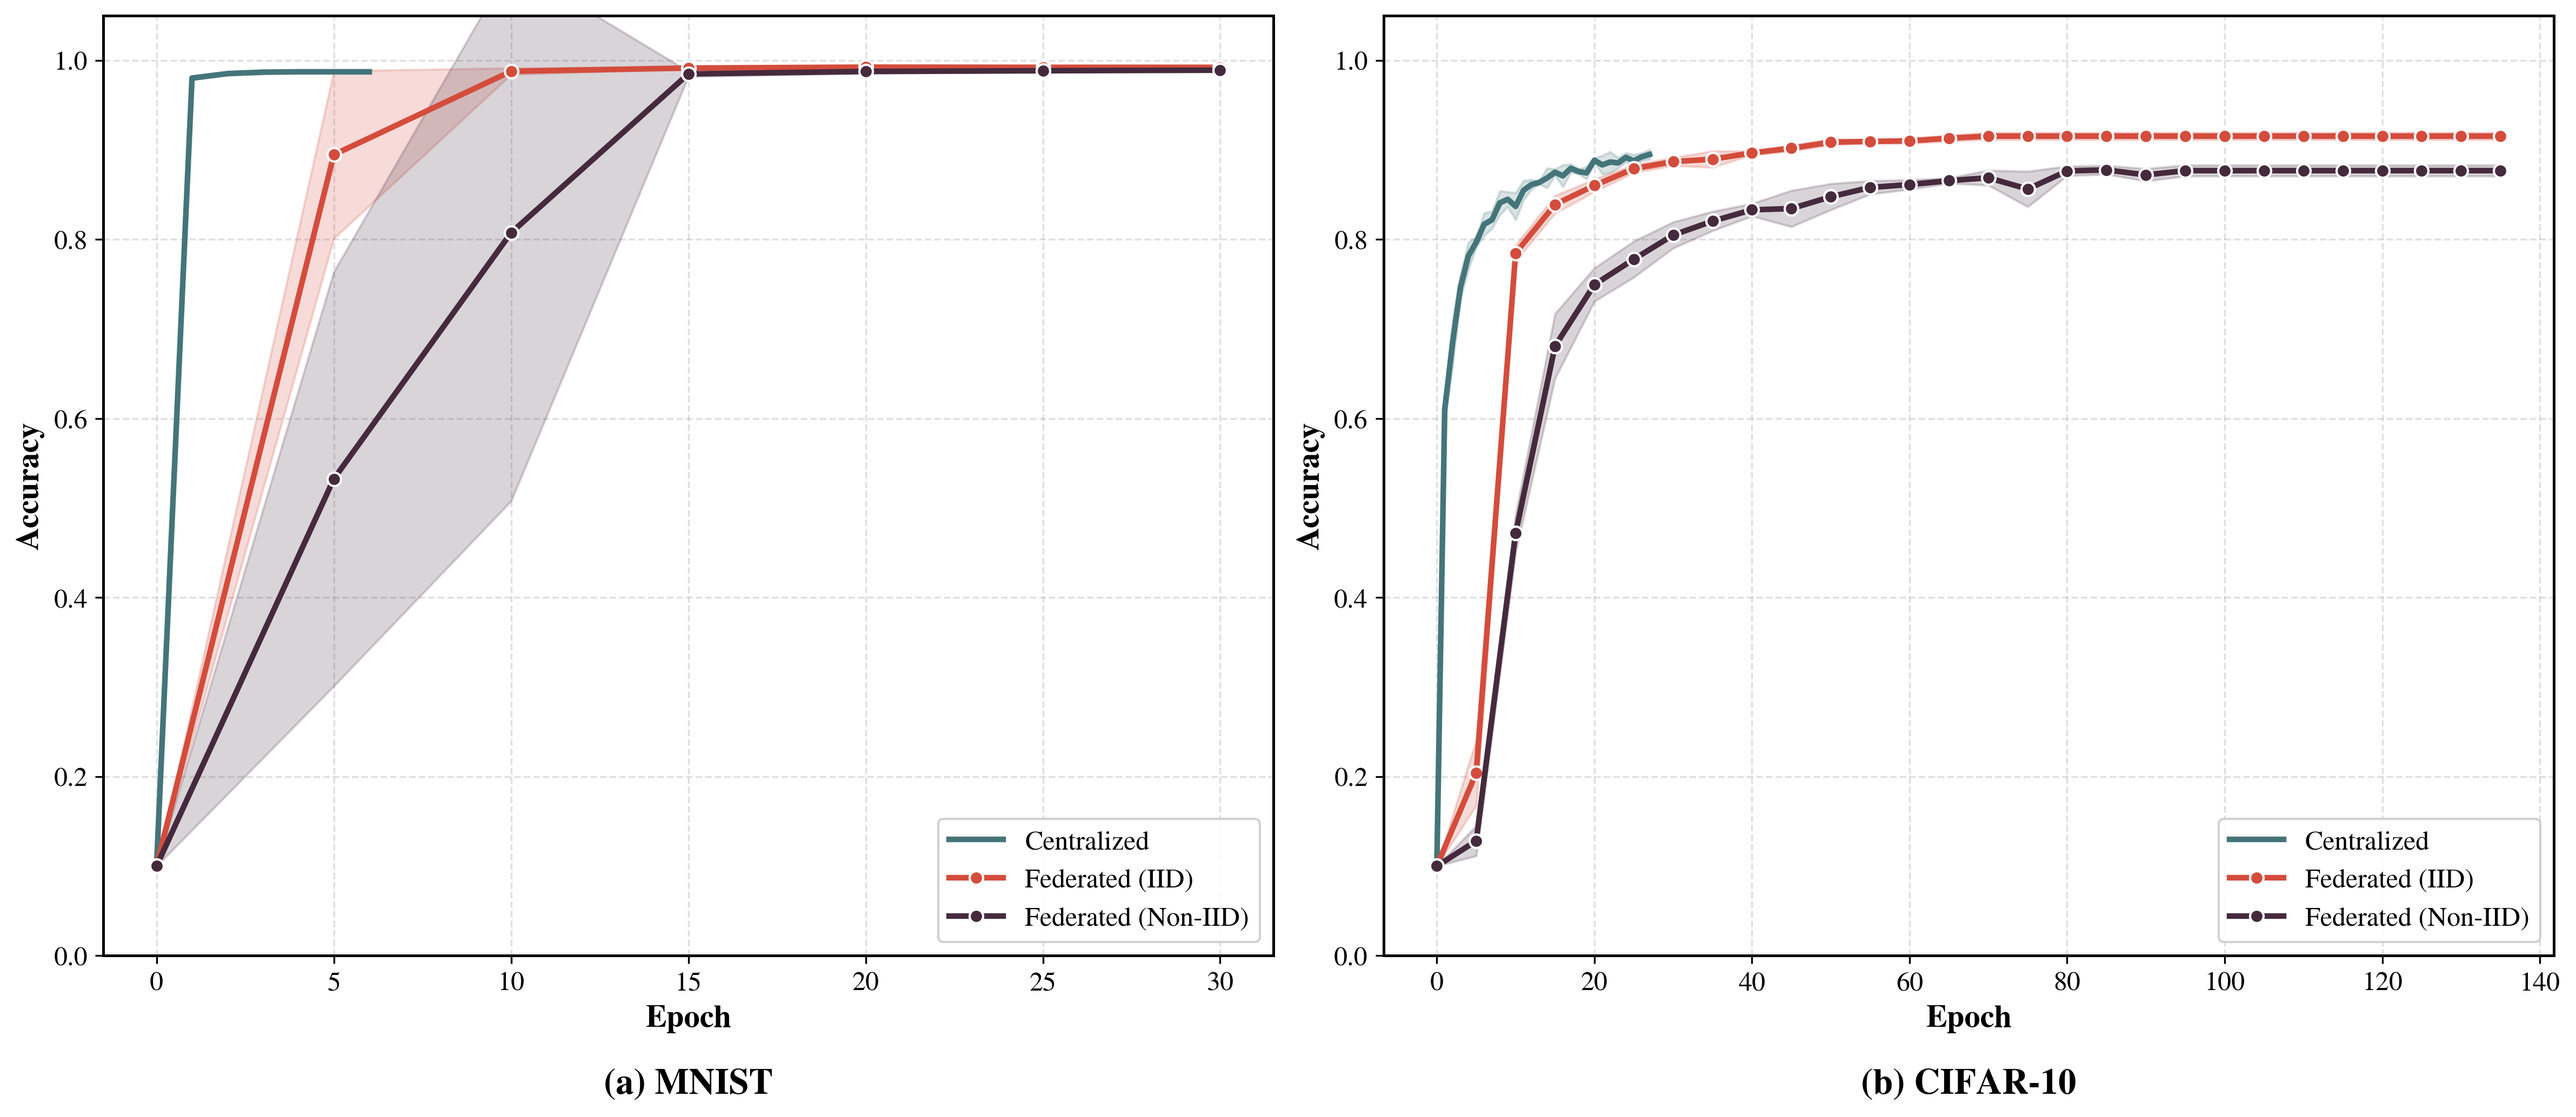
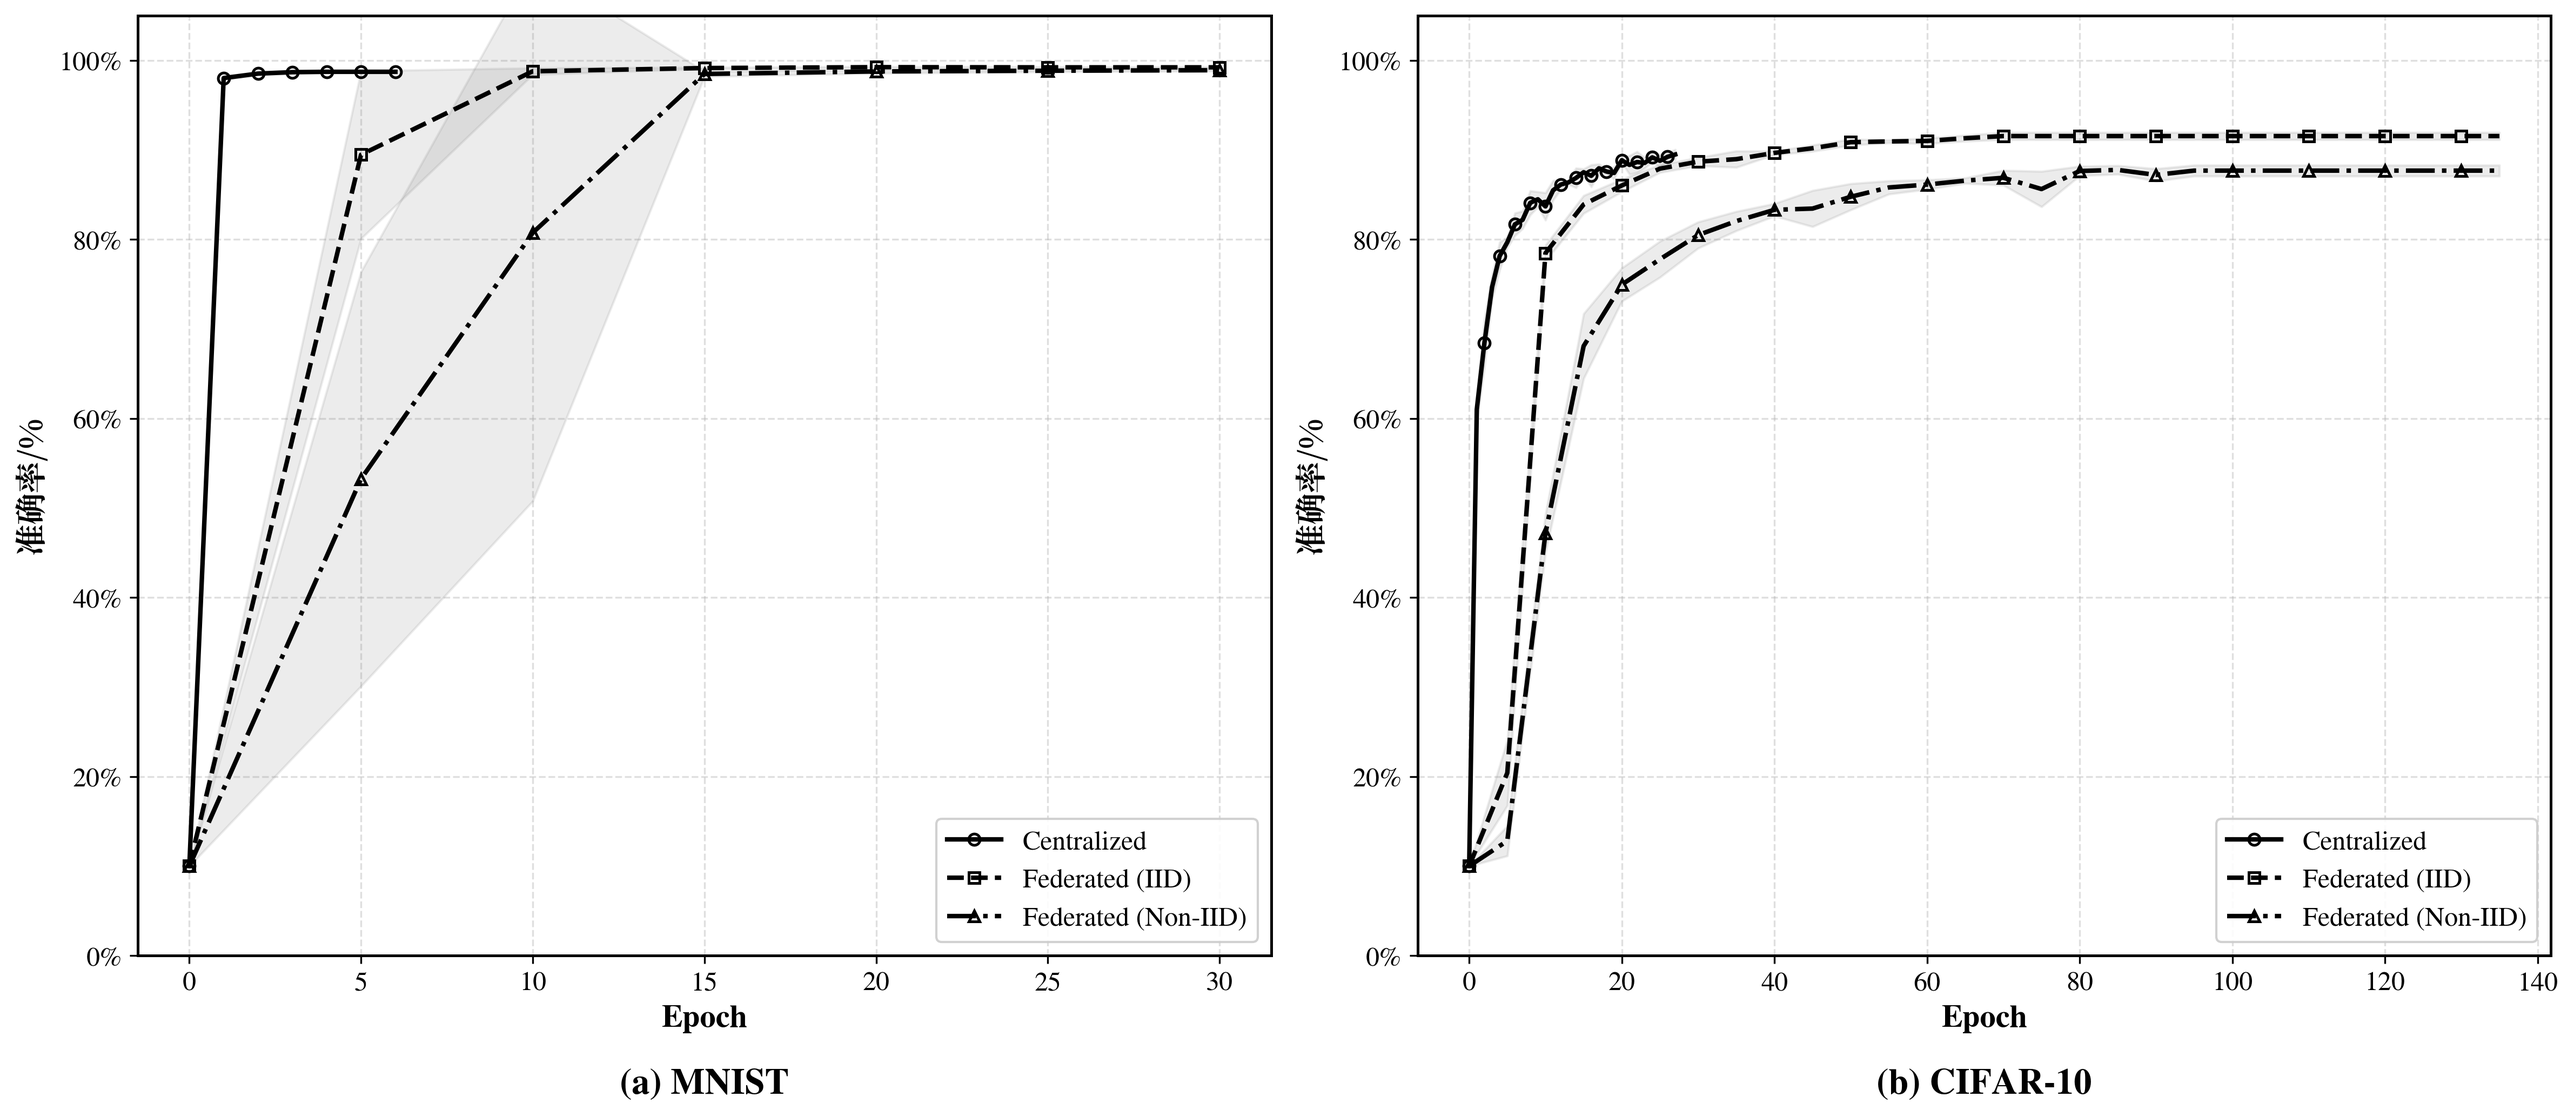
style: 收敛图表适配黑白印刷，Y轴改百分比
- 配色改为全黑，用线型（实线/虚线/点划线）+ 标记（圆/方/三角）区分
- Y轴刻度改为百分比格式（0%~100%）
- 标记改为空心，误差带改为灰色半透明
- 更新 CHANGES.md

diff --git a/src/utils/draw.py b/src/utils/draw.py
@@ -165,8 +165,8 @@ def process_runs_data(runs_data: list[list[tuple[int, float]]],
     for run in runs_data:
         accs = [r[1] for r in run[:min_length]]
         
-        # 在开头添加 Accuracy=0.1 的点
-        accs = [0.1] + accs
+        # 在开头添加 Accuracy=0.1 的点（转换为百分比）
+        accs = [10.0] + [a * 100 for a in accs]
         
         # 如果需要填充到目标长度，用最后一个准确率填充
         if target_length is not None and len(accs) < target_length:
@@ -243,13 +243,25 @@ def plot_single_subplot(ax, data: dict, dataset: str, subplot_label: str,
         song_font: 宋体字体名称
         times_font: Times New Roman 风格字体名称
     """
-    # 配色方案（复古学术风格）
-    colors = {
-        'Centralized': '#44757A',        # 深青色
-        'Federated_IID': '#D44C3C',      # 砖红色
-        'Federated_NonIID': '#452A3D'    # 深紫色
+    # 黑白印刷样式：线型 + 标记区分
+    styles = {
+        'Centralized': {
+            'linestyle': '-',           # 实线
+            'marker': 'o',              # 圆形
+            'color': 'black'
+        },
+        'Federated_IID': {
+            'linestyle': '--',          # 虚线
+            'marker': 's',              # 方形
+            'color': 'black'
+        },
+        'Federated_NonIID': {
+            'linestyle': '-.',          # 点划线
+            'marker': '^',              # 三角形
+            'color': 'black'
+        }
     }
-    
+
     labels = {
         'Centralized': 'Centralized',
         'Federated_IID': 'Federated (IID)',
@@ -285,30 +297,32 @@ def plot_single_subplot(ax, data: dict, dataset: str, subplot_label: str,
         if len(epochs) == 0:
             continue
         
-        color = colors[method]
+        style = styles[method]
         label = labels[method]
-        
-        # 绘制均值线
-        ax.plot(epochs, mean_acc, 
-                color=color, 
-                linewidth=2.5, 
+
+        # 绘制均值线（黑白线型 + 标记）
+        ax.plot(epochs, mean_acc,
+                color=style['color'],
+                linestyle=style['linestyle'],
+                linewidth=2,
                 label=label,
-                marker='o' if is_federated else None,
-                markersize=6 if is_federated else 0,
-                markerfacecolor=color,
-                markeredgecolor='white',
-                markeredgewidth=1)
-        
-        # 绘制阴影误差带
-        ax.fill_between(epochs, 
-                        mean_acc - std_acc, 
+                marker=style['marker'],
+                markersize=5,
+                markerfacecolor='none',
+                markeredgecolor='black',
+                markeredgewidth=1.2,
+                markevery=max(1, len(epochs) // 10))
+
+        # 绘制阴影误差带（灰色半透明）
+        ax.fill_between(epochs,
+                        mean_acc - std_acc,
                         mean_acc + std_acc,
-                        color=color, 
-                        alpha=0.2)
+                        color='gray',
+                        alpha=0.15)
     
     # 设置标签（不设置标题），使用 Times New Roman 风格字体
     ax.set_xlabel('Epoch', fontsize=14, fontweight='bold', fontfamily=times_font)
-    ax.set_ylabel('Accuracy', fontsize=14, fontweight='bold', fontfamily=times_font)
+    ax.set_ylabel('准确率/%', fontsize=14, fontweight='bold', fontfamily=song_font)
     
     # 设置图例，使用 Times New Roman 风格字体
     from matplotlib import font_manager as fm
@@ -322,13 +336,17 @@ def plot_single_subplot(ax, data: dict, dataset: str, subplot_label: str,
     ax.grid(True, linestyle='--', alpha=0.4)
     ax.set_axisbelow(True)
     
-    # 设置Y轴范围
-    ax.set_ylim([0, 1.05])
+    # 设置Y轴范围（百分比）
+    ax.set_ylim([0, 105])
     
     # 美化边框
     for spine in ax.spines.values():
         spine.set_linewidth(1.2)
     
+    # 设置Y轴刻度为百分比格式
+    from matplotlib.ticker import FuncFormatter
+    ax.yaxis.set_major_formatter(FuncFormatter(lambda y, _: f'{y:.0f}%'))
+
     # 设置坐标轴刻度字体
     ax.tick_params(axis='both', which='major', labelsize=12)
     # 设置刻度标签字体为 Times New Roman 风格

diff --git a/CHANGES.md b/CHANGES.md
@@ -1,5 +1,14 @@
 # 变更日志
 
+## 2026-04-01
+
+### 收敛图表适配黑白印刷
+- **修改** `src/utils/draw.py`：
+  - 配色改为全黑，用三种线型区分（实线+圆形、虚线+方形、点划线+三角）
+  - Y轴标签 Accuracy → 准确率 (%)
+  - Y轴刻度改为百分比格式（0%~100%）
+  - 标记样式改为空心（markerfacecolor='none'）
+
 ## 2026-03-13
 
 ### 文档整合
